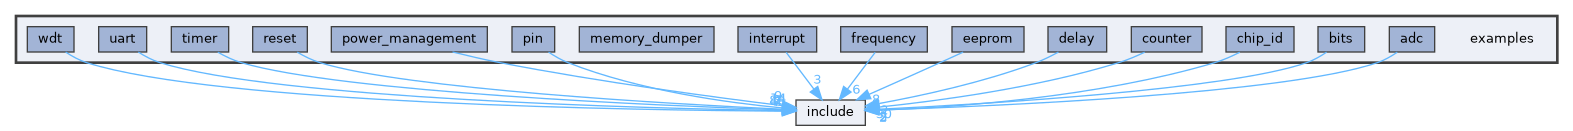
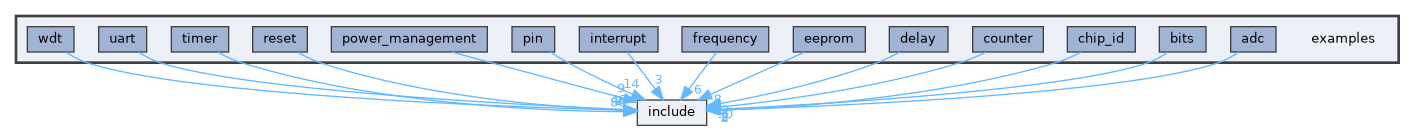
Add utility to dump RAM

Changed region(s): [[0.0, 0.1221, 0.9951, 0.9771]]

diff --git a/docs/html/dir_d28a4824dc47e487b107a5db32ef43c4.html b/docs/html/dir_d28a4824dc47e487b107a5db32ef43c4.html
@@ -81,51 +81,50 @@ Directory dependency graph for examples:</div>
 <div class="dyncontent">
 <div class="center"><img src="dir_d28a4824dc47e487b107a5db32ef43c4_dep.png" border="0" usemap="#adir__d28a4824dc47e487b107a5db32ef43c4__dep" alt="examples"/></div>
 <map name="adir__d28a4824dc47e487b107a5db32ef43c4__dep" id="adir__d28a4824dc47e487b107a5db32ef43c4__dep">
-<area shape="rect" href="dir_720b8ab6b790f5f5c2491f2b59525b47.html" title="adc" alt="" coords="1389,27,1435,52"/>
-<area shape="rect" href="dir_d44c64559bbebec7f509842c48db8b23.html" title="include" alt="" coords="796,100,865,125"/>
-<area shape="poly" href="dir_000001_000020.html" alt="" coords="1399,55,1378,65,1335,76,1277,85,1137,99,879,113,879,107,1137,94,1277,80,1334,71,1376,60,1396,50"/>
-<area shape="rect" href="dir_000001_000020.html" title="5" alt="" coords="879,111,889,126"/>
-<area shape="rect" href="dir_cfcc1510566ad3deac88d4f5f34ac519.html" title="bits" alt="" coords="1318,27,1365,52"/>
-<area shape="poly" href="dir_000007_000020.html" alt="" coords="1328,55,1308,65,1222,83,1103,97,880,112,879,107,1103,92,1221,78,1306,60,1325,50"/>
-<area shape="rect" href="dir_000007_000020.html" title="2" alt="" coords="879,110,889,125"/>
-<area shape="rect" href="dir_3d912f430f8f20417cc587910e4b8eb6.html" title="chip_id" alt="" coords="1226,27,1294,52"/>
-<area shape="poly" href="dir_000009_000020.html" alt="" coords="1241,55,1215,65,1124,87,1031,101,879,113,878,108,1030,96,1123,82,1214,60,1239,50"/>
-<area shape="rect" href="dir_000009_000020.html" title="2" alt="" coords="879,111,888,126"/>
-<area shape="rect" href="dir_342fd596cf0549a34a5151e12af6056c.html" title="counter" alt="" coords="1131,27,1202,52"/>
-<area shape="poly" href="dir_000013_000020.html" alt="" coords="1146,55,1120,65,1055,82,990,95,879,110,879,104,989,89,1054,77,1118,60,1144,50"/>
-<area shape="rect" href="dir_000013_000020.html" title="30" alt="" coords="876,108,893,122"/>
-<area shape="rect" href="dir_a077256fa57d221b8243921f3a5dc181.html" title="delay" alt="" coords="1048,27,1107,52"/>
-<area shape="poly" href="dir_000016_000020.html" alt="" coords="1060,54,1037,65,955,90,880,106,879,101,953,85,1035,60,1057,50"/>
-<area shape="rect" href="dir_000016_000020.html" title="2" alt="" coords="880,104,890,118"/>
-<area shape="rect" href="dir_e6b636a9d873321c7b2e0dc6c48a7a6b.html" title="eeprom" alt="" coords="952,27,1024,52"/>
-<area shape="poly" href="dir_000017_000020.html" alt="" coords="964,55,941,65,870,97,868,92,939,60,962,50"/>
-<area shape="rect" href="dir_000017_000020.html" title="8" alt="" coords="872,93,881,108"/>
-<area shape="rect" href="dir_022c70a4c242b590c6b5b9f5062478fb.html" title="frequency" alt="" coords="841,27,927,52"/>
-<area shape="poly" href="dir_000019_000020.html" alt="" coords="877,54,850,91,845,88,873,51"/>
-<area shape="rect" href="dir_000019_000020.html" title="6" alt="" coords="852,83,862,98"/>
-<area shape="rect" href="dir_c1db52a656d3093099d376eb28786d44.html" title="interrupt" alt="" coords="738,27,817,52"/>
-<area shape="poly" href="dir_000021_000020.html" alt="" coords="788,51,816,88,812,91,784,54"/>
-<area shape="rect" href="dir_000021_000020.html" title="3" alt="" coords="813,73,823,88"/>
-<area shape="rect" href="dir_7a336d219b38a61a3a5a67c2533344af.html" title="memory_dumper" alt="" coords="579,27,714,52"/>
+<area shape="rect" href="dir_720b8ab6b790f5f5c2491f2b59525b47.html" title="adc" alt="" coords="1231,27,1276,52"/>
+<area shape="rect" href="dir_d44c64559bbebec7f509842c48db8b23.html" title="include" alt="" coords="637,100,707,125"/>
+<area shape="poly" href="dir_000001_000020.html" alt="" coords="1240,55,1220,65,1176,76,1119,85,979,99,720,113,720,107,978,94,1118,80,1175,71,1218,60,1237,50"/>
+<area shape="rect" href="dir_000001_000020.html" title="5" alt="" coords="721,111,730,126"/>
+<area shape="rect" href="dir_cfcc1510566ad3deac88d4f5f34ac519.html" title="bits" alt="" coords="1159,27,1206,52"/>
+<area shape="poly" href="dir_000007_000020.html" alt="" coords="1169,55,1149,65,1064,83,945,97,721,112,721,107,944,92,1063,78,1147,60,1167,50"/>
+<area shape="rect" href="dir_000007_000020.html" title="2" alt="" coords="721,110,730,125"/>
+<area shape="rect" href="dir_3d912f430f8f20417cc587910e4b8eb6.html" title="chip_id" alt="" coords="1067,27,1135,52"/>
+<area shape="poly" href="dir_000009_000020.html" alt="" coords="1082,55,1057,65,965,87,872,101,720,113,720,108,871,96,964,82,1055,60,1080,50"/>
+<area shape="rect" href="dir_000009_000020.html" title="2" alt="" coords="720,111,730,126"/>
+<area shape="rect" href="dir_342fd596cf0549a34a5151e12af6056c.html" title="counter" alt="" coords="973,27,1043,52"/>
+<area shape="poly" href="dir_000013_000020.html" alt="" coords="987,55,961,65,897,82,831,95,721,110,720,104,831,89,895,77,959,60,985,50"/>
+<area shape="rect" href="dir_000013_000020.html" title="30" alt="" coords="717,108,734,122"/>
+<area shape="rect" href="dir_a077256fa57d221b8243921f3a5dc181.html" title="delay" alt="" coords="889,27,948,52"/>
+<area shape="poly" href="dir_000016_000020.html" alt="" coords="901,54,878,65,796,90,721,106,720,101,795,85,876,60,899,50"/>
+<area shape="rect" href="dir_000016_000020.html" title="2" alt="" coords="722,104,731,118"/>
+<area shape="rect" href="dir_e6b636a9d873321c7b2e0dc6c48a7a6b.html" title="eeprom" alt="" coords="793,27,865,52"/>
+<area shape="poly" href="dir_000017_000020.html" alt="" coords="806,55,782,65,711,97,709,92,780,60,803,50"/>
+<area shape="rect" href="dir_000017_000020.html" title="8" alt="" coords="713,93,723,108"/>
+<area shape="rect" href="dir_022c70a4c242b590c6b5b9f5062478fb.html" title="frequency" alt="" coords="682,27,769,52"/>
+<area shape="poly" href="dir_000019_000020.html" alt="" coords="719,54,691,91,687,88,714,51"/>
+<area shape="rect" href="dir_000019_000020.html" title="6" alt="" coords="694,83,703,98"/>
+<area shape="rect" href="dir_c1db52a656d3093099d376eb28786d44.html" title="interrupt" alt="" coords="579,27,658,52"/>
+<area shape="poly" href="dir_000021_000020.html" alt="" coords="630,51,657,88,653,91,625,54"/>
+<area shape="rect" href="dir_000021_000020.html" title="3" alt="" coords="655,73,664,88"/>
 <area shape="rect" href="dir_29e5a74ccd6426296e4ac09d381164ff.html" title="pin" alt="" coords="512,27,555,52"/>
-<area shape="poly" href="dir_000037_000020.html" alt="" coords="550,50,569,60,625,78,682,91,783,105,782,111,681,97,623,83,567,65,547,54"/>
-<area shape="rect" href="dir_000037_000020.html" title="14" alt="" coords="770,92,787,106"/>
+<area shape="poly" href="dir_000037_000020.html" alt="" coords="552,50,569,60,634,92,632,97,567,65,549,54"/>
+<area shape="rect" href="dir_000037_000020.html" title="14" alt="" coords="623,77,641,92"/>
 <area shape="rect" href="dir_b1f420cbc16285bdb739e86a837de2c8.html" title="power_management" alt="" coords="331,27,487,52"/>
-<area shape="poly" href="dir_000038_000020.html" alt="" coords="453,49,501,60,655,86,783,103,782,108,654,91,499,65,452,55"/>
-<area shape="rect" href="dir_000038_000020.html" title="9" alt="" coords="774,89,783,104"/>
+<area shape="poly" href="dir_000038_000020.html" alt="" coords="452,49,625,96,623,101,451,55"/>
+<area shape="rect" href="dir_000038_000020.html" title="9" alt="" coords="617,82,626,96"/>
 <area shape="rect" href="dir_f5d028e692faabaaf12586e002fe5fd6.html" title="reset" alt="" coords="253,27,307,52"/>
-<area shape="poly" href="dir_000039_000020.html" alt="" coords="298,50,321,60,413,78,542,91,782,107,782,112,542,97,412,83,319,65,296,55"/>
-<area shape="rect" href="dir_000039_000020.html" title="2" alt="" coords="773,93,783,108"/>
+<area shape="poly" href="dir_000039_000020.html" alt="" coords="299,50,321,60,402,82,486,96,624,108,623,113,485,101,401,87,319,65,297,55"/>
+<area shape="rect" href="dir_000039_000020.html" title="2" alt="" coords="615,94,624,109"/>
 <area shape="rect" href="dir_e7ce32aeeb928923d1462842b69c3a0e.html" title="timer" alt="" coords="171,27,229,52"/>
-<area shape="poly" href="dir_000046_000020.html" alt="" coords="219,50,242,60,289,70,352,79,504,93,782,107,782,113,504,98,351,85,288,76,241,65,217,55"/>
-<area shape="rect" href="dir_000046_000020.html" title="86" alt="" coords="769,94,786,109"/>
+<area shape="poly" href="dir_000046_000020.html" alt="" coords="219,50,242,60,347,85,452,100,548,107,623,109,623,114,548,112,452,105,346,90,240,65,217,55"/>
+<area shape="rect" href="dir_000046_000020.html" title="86" alt="" coords="610,96,628,111"/>
 <area shape="rect" href="dir_76fe44c6ca20bab07ba4bcccb4a1a186.html" title="uart" alt="" coords="99,27,147,52"/>
-<area shape="poly" href="dir_000053_000020.html" alt="" coords="139,50,161,60,215,72,288,83,465,97,645,105,782,108,782,113,645,110,464,102,287,88,214,78,159,65,137,54"/>
-<area shape="rect" href="dir_000053_000020.html" title="48" alt="" coords="769,95,787,109"/>
+<area shape="poly" href="dir_000053_000020.html" alt="" coords="140,50,161,60,253,78,382,92,624,107,623,112,382,97,252,84,159,65,137,55"/>
+<area shape="rect" href="dir_000053_000020.html" title="48" alt="" coords="611,93,628,108"/>
 <area shape="rect" href="dir_3b6283f0b2293a623dfa8ab8fc5e9db4.html" title="wdt" alt="" coords="27,27,74,52"/>
-<area shape="poly" href="dir_000055_000020.html" alt="" coords="67,50,88,60,149,74,230,85,430,99,631,106,782,109,782,114,631,112,429,105,230,90,148,79,86,65,64,54"/>
-<area shape="rect" href="dir_000055_000020.html" title="7" alt="" coords="773,95,782,110"/>
-<area shape="rect" href="dir_d28a4824dc47e487b107a5db32ef43c4.html" alt="" coords="16,16,1557,63"/>
+<area shape="poly" href="dir_000056_000020.html" alt="" coords="67,50,88,60,134,71,196,81,347,95,624,108,623,113,347,100,195,86,133,77,86,65,65,55"/>
+<area shape="rect" href="dir_000056_000020.html" title="7" alt="" coords="615,94,624,109"/>
+<area shape="rect" href="dir_d28a4824dc47e487b107a5db32ef43c4.html" alt="" coords="16,16,1399,63"/>
 </map>
 </div>
 <table class="memberdecls">
@@ -144,8 +143,6 @@ Directories</h2></td></tr>
 <tr class="memitem:"><td class="memItemLeft" align="right" valign="top"><span class="iconfclosed"></span>&#160;</td><td class="memItemRight" valign="bottom"><a class="el" href="dir_022c70a4c242b590c6b5b9f5062478fb.html">frequency</a></td></tr>
 <tr class="separator:"><td class="memSeparator" colspan="2">&#160;</td></tr>
 <tr class="memitem:"><td class="memItemLeft" align="right" valign="top"><span class="iconfclosed"></span>&#160;</td><td class="memItemRight" valign="bottom"><a class="el" href="dir_c1db52a656d3093099d376eb28786d44.html">interrupt</a></td></tr>
-<tr class="separator:"><td class="memSeparator" colspan="2">&#160;</td></tr>
-<tr class="memitem:"><td class="memItemLeft" align="right" valign="top"><span class="iconfclosed"></span>&#160;</td><td class="memItemRight" valign="bottom"><a class="el" href="dir_7a336d219b38a61a3a5a67c2533344af.html">memory_dumper</a></td></tr>
 <tr class="separator:"><td class="memSeparator" colspan="2">&#160;</td></tr>
 <tr class="memitem:"><td class="memItemLeft" align="right" valign="top"><span class="iconfclosed"></span>&#160;</td><td class="memItemRight" valign="bottom"><a class="el" href="dir_b1f420cbc16285bdb739e86a837de2c8.html">power_management</a></td></tr>
 <tr class="separator:"><td class="memSeparator" colspan="2">&#160;</td></tr>

diff --git a/docs/html/dir_000056_000020.html b/docs/html/dir_000056_000020.html
@@ -5,7 +5,7 @@
 <meta http-equiv="X-UA-Compatible" content="IE=11"/>
 <meta name="generator" content="Doxygen 1.9.8"/>
 <meta name="viewport" content="width=device-width, initial-scale=1"/>
-<title>STC15W408AS library: examples/pin/value -&gt; include Relation</title>
+<title>STC15W408AS library: examples/wdt -&gt; include Relation</title>
 <link href="tabs.css" rel="stylesheet" type="text/css"/>
 <script type="text/javascript" src="jquery.js"></script>
 <script type="text/javascript" src="dynsections.js"></script>
@@ -69,11 +69,11 @@ $(function() {
 
 <div id="nav-path" class="navpath">
   <ul>
-<li class="navelem"><a class="el" href="dir_d28a4824dc47e487b107a5db32ef43c4.html">examples</a></li><li class="navelem"><a class="el" href="dir_29e5a74ccd6426296e4ac09d381164ff.html">pin</a></li><li class="navelem"><a class="el" href="dir_308ea3cf4983e27fae254d40ce5b8aa1.html">value</a></li>  </ul>
+<li class="navelem"><a class="el" href="dir_d28a4824dc47e487b107a5db32ef43c4.html">examples</a></li><li class="navelem"><a class="el" href="dir_3b6283f0b2293a623dfa8ab8fc5e9db4.html">wdt</a></li>  </ul>
 </div>
 </div><!-- top -->
 <div class="contents">
-<h3>value &rarr; include Relation</h3><table class="dirtab"><tr class="dirtab"><th class="dirtab">File in examples/pin/value</th><th class="dirtab">Includes file in include</th></tr><tr class="dirtab"><td class="dirtab"><b>pin_read_value_example.c</b></td><td class="dirtab"><a class="el" href="delay_8h.html">delay.h</a></td></tr><tr class="dirtab"><td class="dirtab"><b>pin_read_value_example.c</b></td><td class="dirtab"><a class="el" href="gpio_8h.html">gpio.h</a></td></tr><tr class="dirtab"><td class="dirtab"><b>pin_read_value_example.c</b></td><td class="dirtab"><a class="el" href="uart_8h.html">uart.h</a></td></tr></table></div><!-- contents -->
+<h3>wdt &rarr; include Relation</h3><table class="dirtab"><tr class="dirtab"><th class="dirtab">File in examples/wdt</th><th class="dirtab">Includes file in include</th></tr><tr class="dirtab"><td class="dirtab"><b>wdt_clear_example.c</b></td><td class="dirtab"><a class="el" href="delay_8h.html">delay.h</a></td></tr><tr class="dirtab"><td class="dirtab"><b>wdt_clear_example.c</b></td><td class="dirtab"><a class="el" href="wdt_8h.html">wdt.h</a></td></tr><tr class="dirtab"><td class="dirtab"><b>wdt_flag_example.c</b></td><td class="dirtab"><a class="el" href="delay_8h.html">delay.h</a></td></tr><tr class="dirtab"><td class="dirtab"><b>wdt_flag_example.c</b></td><td class="dirtab"><a class="el" href="uart_8h.html">uart.h</a></td></tr><tr class="dirtab"><td class="dirtab"><b>wdt_flag_example.c</b></td><td class="dirtab"><a class="el" href="wdt_8h.html">wdt.h</a></td></tr><tr class="dirtab"><td class="dirtab"><b>wdt_start_example.c</b></td><td class="dirtab"><a class="el" href="delay_8h.html">delay.h</a></td></tr><tr class="dirtab"><td class="dirtab"><b>wdt_start_example.c</b></td><td class="dirtab"><a class="el" href="wdt_8h.html">wdt.h</a></td></tr></table></div><!-- contents -->
 <!-- start footer part -->
 <hr class="footer"/><address class="footer"><small>
 Generated by&#160;<a href="https://www.doxygen.org/index.html"><img class="footer" src="doxygen.svg" width="104" height="31" alt="doxygen"/></a> 1.9.8

diff --git a/docs/html/dir_5f80566ca90150d94faacccff0c8b65d.html b/docs/html/dir_5f80566ca90150d94faacccff0c8b65d.html
@@ -5,7 +5,7 @@
 <meta http-equiv="X-UA-Compatible" content="IE=11"/>
 <meta name="generator" content="Doxygen 1.9.8"/>
 <meta name="viewport" content="width=device-width, initial-scale=1"/>
-<title>STC15W408AS library: examples/pin/value -&gt; include Relation</title>
+<title>STC15W408AS library: utils/memory_dumper Directory Reference</title>
 <link href="tabs.css" rel="stylesheet" type="text/css"/>
 <script type="text/javascript" src="jquery.js"></script>
 <script type="text/javascript" src="dynsections.js"></script>
@@ -69,11 +69,23 @@ $(function() {
 
 <div id="nav-path" class="navpath">
   <ul>
-<li class="navelem"><a class="el" href="dir_d28a4824dc47e487b107a5db32ef43c4.html">examples</a></li><li class="navelem"><a class="el" href="dir_29e5a74ccd6426296e4ac09d381164ff.html">pin</a></li><li class="navelem"><a class="el" href="dir_308ea3cf4983e27fae254d40ce5b8aa1.html">value</a></li>  </ul>
+<li class="navelem"><a class="el" href="dir_cbdb8362360e11eafe2fa3bc74cf0ffd.html">utils</a></li><li class="navelem"><a class="el" href="dir_5f80566ca90150d94faacccff0c8b65d.html">memory_dumper</a></li>  </ul>
 </div>
 </div><!-- top -->
+<div class="header">
+  <div class="headertitle"><div class="title">memory_dumper Directory Reference</div></div>
+</div><!--header-->
 <div class="contents">
-<h3>value &rarr; include Relation</h3><table class="dirtab"><tr class="dirtab"><th class="dirtab">File in examples/pin/value</th><th class="dirtab">Includes file in include</th></tr><tr class="dirtab"><td class="dirtab"><b>pin_read_value_example.c</b></td><td class="dirtab"><a class="el" href="delay_8h.html">delay.h</a></td></tr><tr class="dirtab"><td class="dirtab"><b>pin_read_value_example.c</b></td><td class="dirtab"><a class="el" href="gpio_8h.html">gpio.h</a></td></tr><tr class="dirtab"><td class="dirtab"><b>pin_read_value_example.c</b></td><td class="dirtab"><a class="el" href="uart_8h.html">uart.h</a></td></tr></table></div><!-- contents -->
+<div class="dynheader">
+Directory dependency graph for memory_dumper:</div>
+<div class="dyncontent">
+<div class="center"><img src="dir_5f80566ca90150d94faacccff0c8b65d_dep.png" border="0" usemap="#adir__5f80566ca90150d94faacccff0c8b65d__dep" alt="utils/memory_dumper"/></div>
+<map name="adir__5f80566ca90150d94faacccff0c8b65d__dep" id="adir__5f80566ca90150d94faacccff0c8b65d__dep">
+<area shape="rect" href="dir_5f80566ca90150d94faacccff0c8b65d.html" title="memory_dumper" alt="" coords="27,52,162,77"/>
+<area shape="rect" href="dir_cbdb8362360e11eafe2fa3bc74cf0ffd.html" title="utils" alt="" coords="16,16,173,88"/>
+</map>
+</div>
+</div><!-- contents -->
 <!-- start footer part -->
 <hr class="footer"/><address class="footer"><small>
 Generated by&#160;<a href="https://www.doxygen.org/index.html"><img class="footer" src="doxygen.svg" width="104" height="31" alt="doxygen"/></a> 1.9.8

diff --git a/docs/html/dir_cbdb8362360e11eafe2fa3bc74cf0ffd.html b/docs/html/dir_cbdb8362360e11eafe2fa3bc74cf0ffd.html
@@ -5,7 +5,7 @@
 <meta http-equiv="X-UA-Compatible" content="IE=11"/>
 <meta name="generator" content="Doxygen 1.9.8"/>
 <meta name="viewport" content="width=device-width, initial-scale=1"/>
-<title>STC15W408AS library: examples/pin/value -&gt; include Relation</title>
+<title>STC15W408AS library: utils Directory Reference</title>
 <link href="tabs.css" rel="stylesheet" type="text/css"/>
 <script type="text/javascript" src="jquery.js"></script>
 <script type="text/javascript" src="dynsections.js"></script>
@@ -69,11 +69,20 @@ $(function() {
 
 <div id="nav-path" class="navpath">
   <ul>
-<li class="navelem"><a class="el" href="dir_d28a4824dc47e487b107a5db32ef43c4.html">examples</a></li><li class="navelem"><a class="el" href="dir_29e5a74ccd6426296e4ac09d381164ff.html">pin</a></li><li class="navelem"><a class="el" href="dir_308ea3cf4983e27fae254d40ce5b8aa1.html">value</a></li>  </ul>
+<li class="navelem"><a class="el" href="dir_cbdb8362360e11eafe2fa3bc74cf0ffd.html">utils</a></li>  </ul>
 </div>
 </div><!-- top -->
+<div class="header">
+  <div class="headertitle"><div class="title">utils Directory Reference</div></div>
+</div><!--header-->
 <div class="contents">
-<h3>value &rarr; include Relation</h3><table class="dirtab"><tr class="dirtab"><th class="dirtab">File in examples/pin/value</th><th class="dirtab">Includes file in include</th></tr><tr class="dirtab"><td class="dirtab"><b>pin_read_value_example.c</b></td><td class="dirtab"><a class="el" href="delay_8h.html">delay.h</a></td></tr><tr class="dirtab"><td class="dirtab"><b>pin_read_value_example.c</b></td><td class="dirtab"><a class="el" href="gpio_8h.html">gpio.h</a></td></tr><tr class="dirtab"><td class="dirtab"><b>pin_read_value_example.c</b></td><td class="dirtab"><a class="el" href="uart_8h.html">uart.h</a></td></tr></table></div><!-- contents -->
+<table class="memberdecls">
+<tr class="heading"><td colspan="2"><h2 class="groupheader"><a id="subdirs" name="subdirs"></a>
+Directories</h2></td></tr>
+<tr class="memitem:"><td class="memItemLeft" align="right" valign="top"><span class="iconfclosed"></span>&#160;</td><td class="memItemRight" valign="bottom"><a class="el" href="dir_5f80566ca90150d94faacccff0c8b65d.html">memory_dumper</a></td></tr>
+<tr class="separator:"><td class="memSeparator" colspan="2">&#160;</td></tr>
+</table>
+</div><!-- contents -->
 <!-- start footer part -->
 <hr class="footer"/><address class="footer"><small>
 Generated by&#160;<a href="https://www.doxygen.org/index.html"><img class="footer" src="doxygen.svg" width="104" height="31" alt="doxygen"/></a> 1.9.8

diff --git a/docs/html/dir_29e5a74ccd6426296e4ac09d381164ff.html b/docs/html/dir_29e5a74ccd6426296e4ac09d381164ff.html
@@ -86,8 +86,8 @@ Directory dependency graph for pin:</div>
 <area shape="poly" href="dir_000023_000020.html" alt="" coords="145,90,124,125,119,123,140,87"/>
 <area shape="rect" href="dir_000023_000020.html" title="11" alt="" coords="122,117,140,132"/>
 <area shape="rect" href="dir_308ea3cf4983e27fae254d40ce5b8aa1.html" title="value" alt="" coords="37,63,96,88"/>
-<area shape="poly" href="dir_000054_000020.html" alt="" coords="76,87,97,123,92,125,71,90"/>
-<area shape="rect" href="dir_000054_000020.html" title="3" alt="" coords="95,109,104,123"/>
+<area shape="poly" href="dir_000055_000020.html" alt="" coords="76,87,97,123,92,125,71,90"/>
+<area shape="rect" href="dir_000055_000020.html" title="3" alt="" coords="95,109,104,123"/>
 <area shape="rect" href="dir_29e5a74ccd6426296e4ac09d381164ff.html" alt="" coords="27,52,256,99"/>
 <area shape="rect" href="dir_d28a4824dc47e487b107a5db32ef43c4.html" title="examples" alt="" coords="16,16,267,109"/>
 </map>

diff --git a/docs/html/dir_3b6283f0b2293a623dfa8ab8fc5e9db4.html b/docs/html/dir_3b6283f0b2293a623dfa8ab8fc5e9db4.html
@@ -83,8 +83,8 @@ Directory dependency graph for wdt:</div>
 <map name="adir__3b6283f0b2293a623dfa8ab8fc5e9db4__dep" id="adir__3b6283f0b2293a623dfa8ab8fc5e9db4__dep">
 <area shape="rect" href="dir_3b6283f0b2293a623dfa8ab8fc5e9db4.html" title="wdt" alt="" coords="35,52,82,77"/>
 <area shape="rect" href="dir_d44c64559bbebec7f509842c48db8b23.html" title="include" alt="" coords="24,125,93,151"/>
-<area shape="poly" href="dir_000055_000020.html" alt="" coords="61,78,61,112,56,112,56,78"/>
-<area shape="rect" href="dir_000055_000020.html" title="7" alt="" coords="62,100,72,114"/>
+<area shape="poly" href="dir_000056_000020.html" alt="" coords="61,78,61,112,56,112,56,78"/>
+<area shape="rect" href="dir_000056_000020.html" title="7" alt="" coords="62,100,72,114"/>
 <area shape="rect" href="dir_d28a4824dc47e487b107a5db32ef43c4.html" title="examples" alt="" coords="16,16,103,88"/>
 </map>
 </div>

diff --git a/docs/html/dir_308ea3cf4983e27fae254d40ce5b8aa1.html b/docs/html/dir_308ea3cf4983e27fae254d40ce5b8aa1.html
@@ -83,8 +83,8 @@ Directory dependency graph for value:</div>
 <map name="adir__308ea3cf4983e27fae254d40ce5b8aa1__dep" id="adir__308ea3cf4983e27fae254d40ce5b8aa1__dep">
 <area shape="rect" href="dir_308ea3cf4983e27fae254d40ce5b8aa1.html" title="value" alt="" coords="27,52,85,77"/>
 <area shape="rect" href="dir_d44c64559bbebec7f509842c48db8b23.html" title="include" alt="" coords="21,125,91,151"/>
-<area shape="poly" href="dir_000054_000020.html" alt="" coords="59,78,59,112,53,112,53,78"/>
-<area shape="rect" href="dir_000054_000020.html" title="3" alt="" coords="60,100,69,114"/>
+<area shape="poly" href="dir_000055_000020.html" alt="" coords="59,78,59,112,53,112,53,78"/>
+<area shape="rect" href="dir_000055_000020.html" title="3" alt="" coords="60,100,69,114"/>
 <area shape="rect" href="dir_29e5a74ccd6426296e4ac09d381164ff.html" title="pin" alt="" coords="16,16,96,88"/>
 </map>
 </div>

diff --git a/docs/html/md_VERSION__HISTORY.html b/docs/html/md_VERSION__HISTORY.html
@@ -72,7 +72,7 @@ $(function() {
   <div class="headertitle"><div class="title">Version history</div></div>
 </div><!--header-->
 <div class="contents">
-<div class="textblock"><p><a class="anchor" id="autotoc_md9"></a>0.1.0</p><ul>
+<div class="textblock"><p><a class="anchor" id="autotoc_md10"></a>0.1.0</p><ul>
 <li>first version</li>
 <li>system sfr headers support</li>
 <li>bits manipulations</li>
@@ -263,8 +263,10 @@ $(function() {
 <li>Generate docs during cmake build</li>
 </ul>
 <p>0.15.0</p><ul>
+<li>Add utility to dump RAM</li>
+<li>TODO Add README.md for memory dumper <br  />
+</li>
 <li>TODO Write utility to make hex file for the EEPROM</li>
-<li>TODO Add utility to dump RAM</li>
 </ul>
 <p>Next releases todo</p><ul>
 <li>TODO UART1 support frame error</li>

diff --git a/VERSION_HISTORY.md b/VERSION_HISTORY.md
@@ -172,8 +172,9 @@
 * Generate docs during cmake build
 
 0.15.0
+* Add utility to dump RAM
+* TODO Add README.md for memory dumper  
 * TODO Write utility to make hex file for the EEPROM
-* TODO Add utility to dump RAM 
 
 Next releases todo
 * TODO UART1 support frame error

diff --git a/utils/memory_dumper/README.md b/utils/memory_dumper/README.md
@@ -1,0 +1,1 @@
+# Memmory dumper
